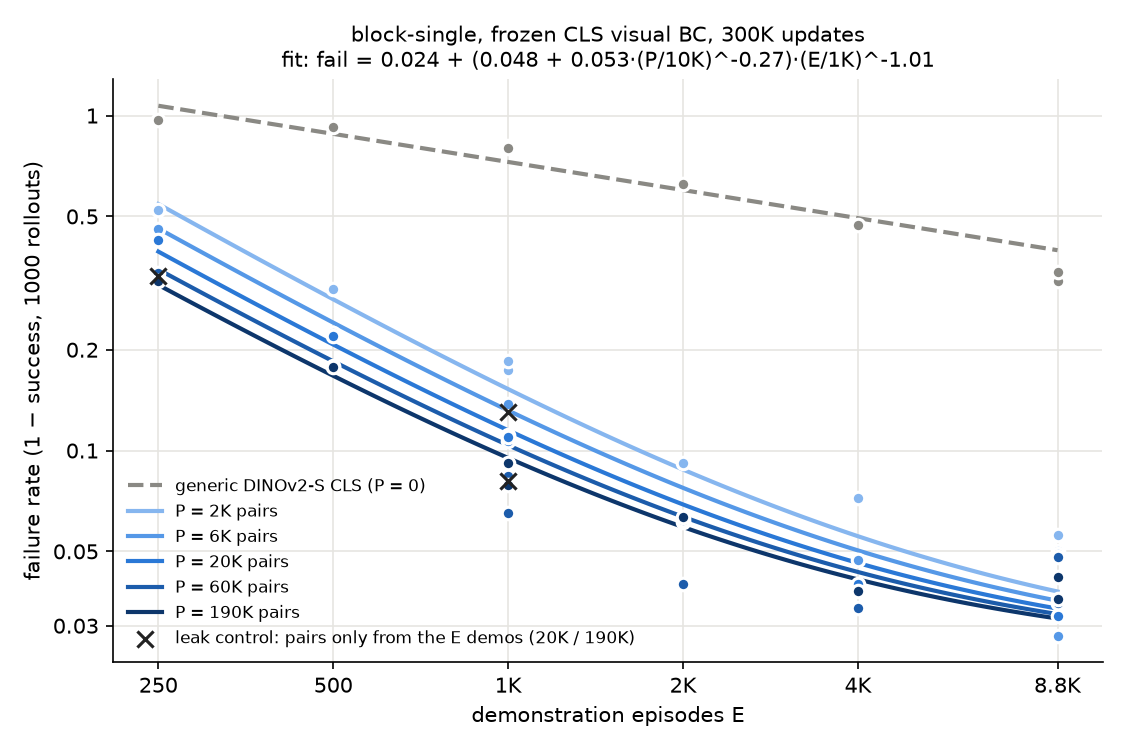
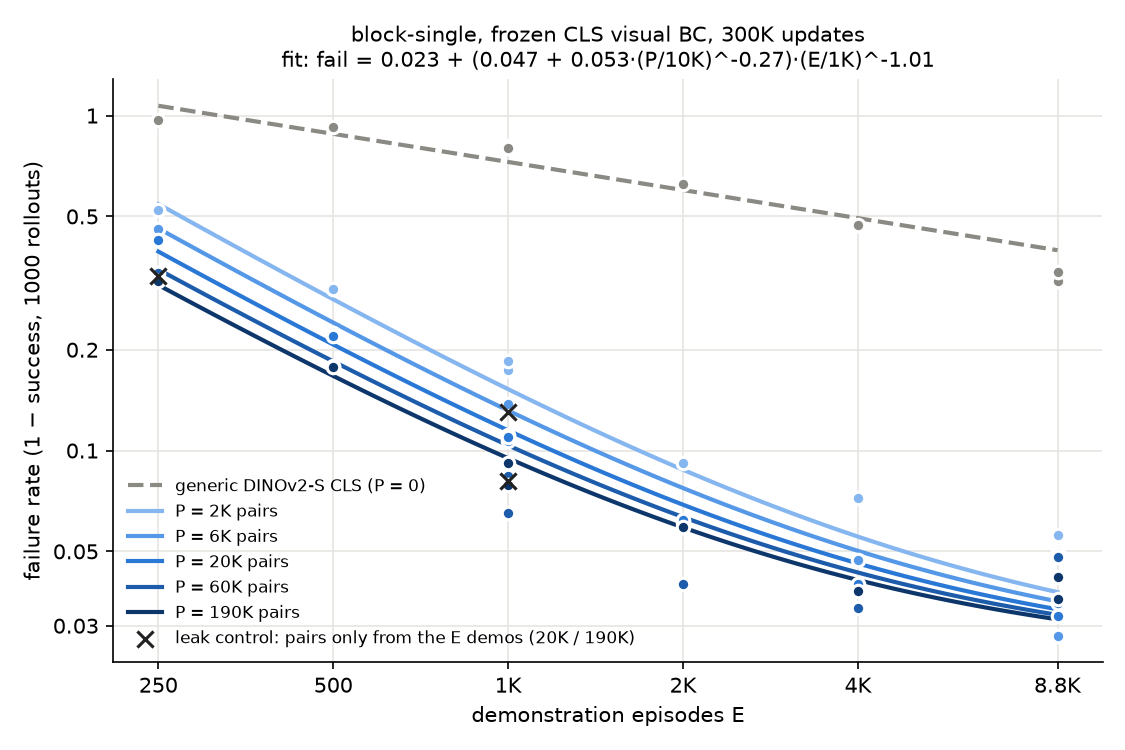
vision follow-up: final p190k-e2000 cell, refit scaling law

diff --git a/experiments/vision-bc/followup.md b/experiments/vision-bc/followup.md
@@ -76,7 +76,7 @@ Setup:
   all successful demos.
 - E = 1K and 8.8K have two seeds, shown as s0 / s1.
 
-Success, 1000-rollout final evaluation (* = unfinished at the time of writing; last 300-rollout evaluation):
+Success, 1000-rollout final evaluation:
 
 | P \ E | 250 | 500 | 1K | 2K | 4K | 8.8K |
 | --- | ---: | ---: | ---: | ---: | ---: | ---: |
@@ -85,17 +85,17 @@ Success, 1000-rollout final evaluation (* = unfinished at the time of writing; l
 | 6K | 0.542 | 0.776 | 0.889 / 0.862 | 0.939 | 0.953 | 0.951 / 0.972 |
 | 20K | 0.576 | 0.780 | 0.893 / 0.890 | 0.938 | 0.960 | 0.965 / 0.968 |
 | 60K | 0.662 | 0.821 | 0.935 / 0.916 | 0.960 | 0.966 | 0.965 / 0.952 |
-| 190K | 0.680 | 0.822 | 0.908 / 0.921 | 0.937* | 0.962 | 0.958 / 0.964 |
+| 190K | 0.680 | 0.822 | 0.908 / 0.921 | 0.941 | 0.962 | 0.958 / 0.964 |
 
 For reference, ground-truth-state BC on 10K demos reaches 0.85.
 
 Fit on the 40 cells with P > 0 (residual RMSE 0.015, about seed noise):
 
 ```
-failure(P, E) = 0.024 + (0.048 + 0.053 · (P / 10K)^-0.27) · (E / 1K)^-1.01
+failure(P, E) = 0.023 + (0.047 + 0.053 · (P / 10K)^-0.27) · (E / 1K)^-1.01
 ```
 
-- **Failure falls as about 1/E toward a floor of about 2.4%.** Doubling the demos roughly halves the reducible
+- **Failure falls as about 1/E toward a floor of about 2.3%.** Doubling the demos roughly halves the reducible
   failure.
   - The floor is near the evaluation noise of the best runs (0.95–0.97). It may be set by the expert's own
     quality rather than by the policy.
